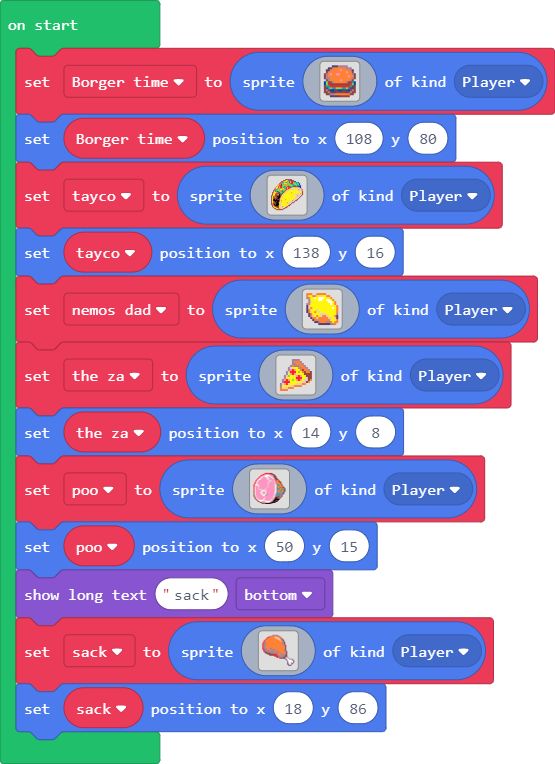
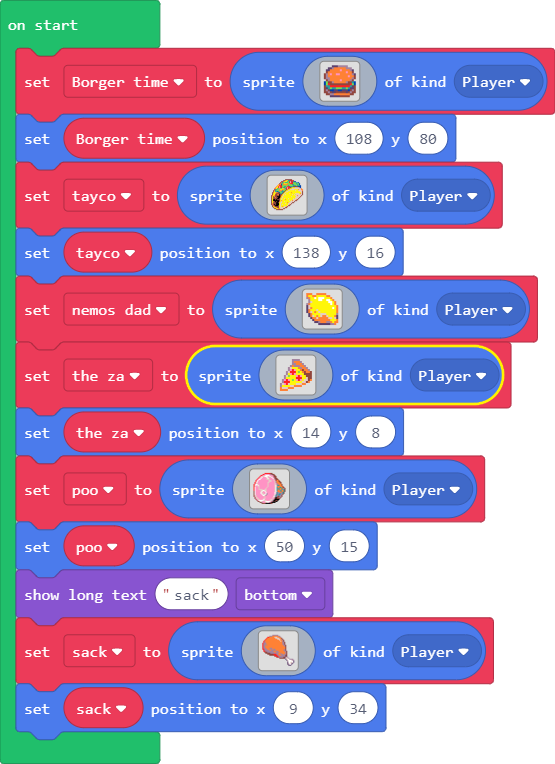
final collage

Changed region(s): [[0.3369, 0.4516, 0.9189, 0.5419], [0.6432, 0.9031, 0.6739, 0.9332], [0.5207, 0.9031, 0.5514, 0.9332]]

diff --git a/main.ts b/main.ts
@@ -159,4 +159,4 @@ let sack = sprites.create(img`
 . . . . . . . . . . . . . . . . . . . . . . . . . . c c c . . . 
 . . . . . . . . . . . . . . . . . . . . . . . . . . . . . . . . 
 `, SpriteKind.Player)
-sack.setPosition(18, 86)
+sack.setPosition(9, 34)
